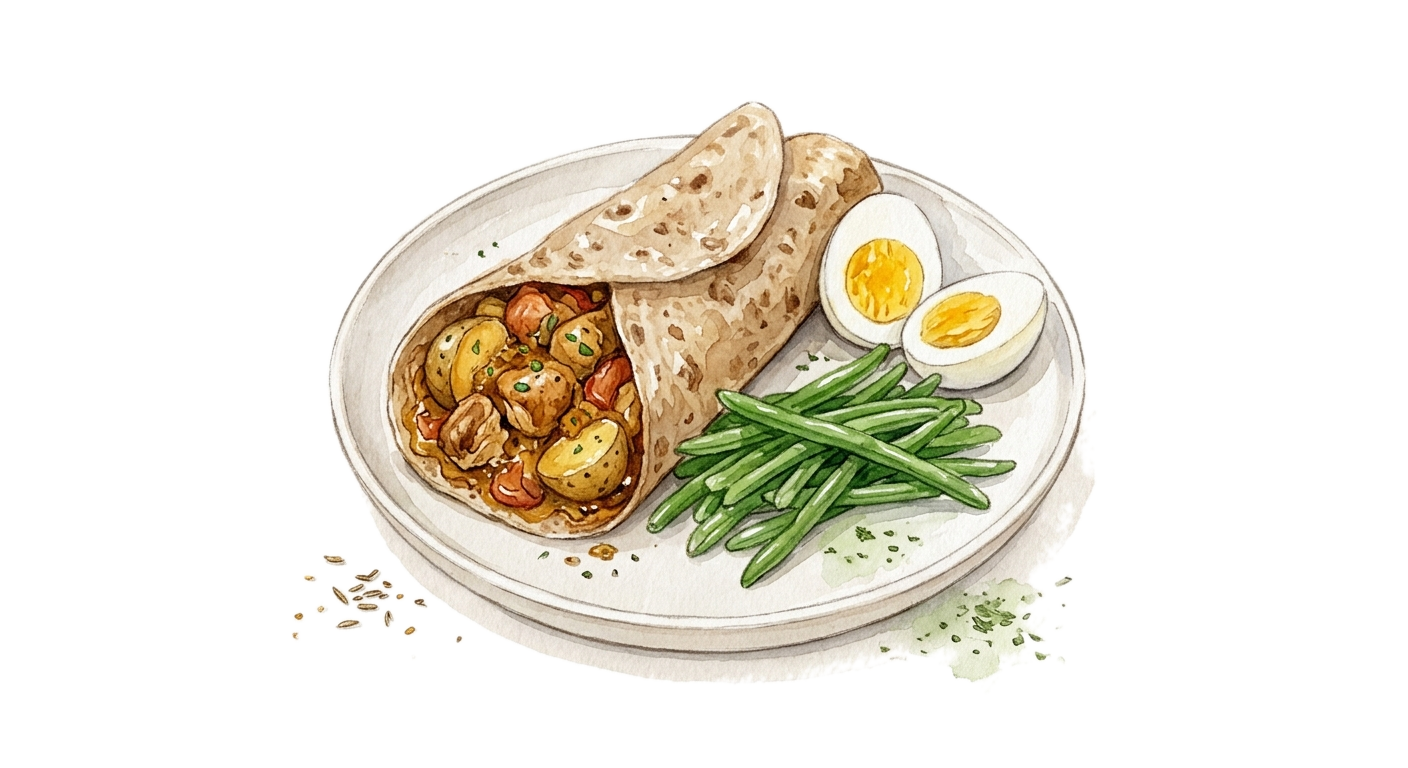
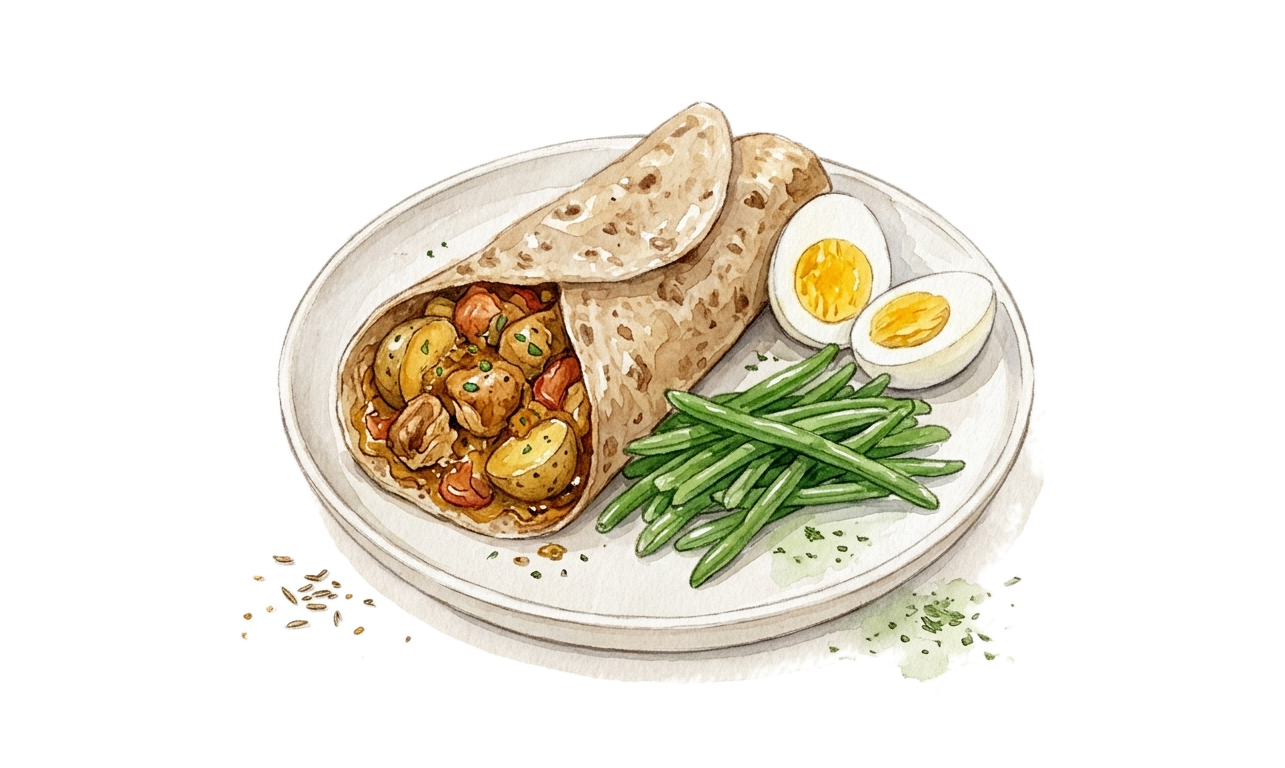
Fix false-positive no-op crop in enlarge_hero_images.py
A padding tier loose enough to clip back to the full canvas was a no-op
(byte-for-byte the original image), which trivially passed the
page-count check and got reported as a successful enlargement without
actually cropping anything. Detect and skip no-op crop boxes before
rebuilding, and report an honest reason (already tight, or genuinely
broke the page count) instead.

Also includes a validated real run against roti.png: cropped 1408->1285px
wide (content fraction 57%->62%), verified "Roti met kip" still spans
its original 2 pages.

Changed region(s): [[0.1868, 0.125, 0.8093, 0.9062], [0.4358, 0.7812, 0.4669, 0.8438], [0.4669, 0.8438, 0.4981, 0.875]]

diff --git a/scripts/enlarge_hero_images.py b/scripts/enlarge_hero_images.py
@@ -197,16 +197,30 @@ def print_scan(rows):
         print(f"{row['path'].name:38s} {w:5d}x{h:<5d}  content width {row['fraction']:5.0%}  {tag}")
 
 
+def is_noop_box(box, size):
+    """True if a crop box covers the whole canvas — i.e. the requested
+    padding was too generous to remove any margin at all, so cropping to
+    it would leave the file byte-for-byte the image it already is."""
+    l, t, r, b = box
+    w, h = size
+    return l <= 0 and t <= 0 and r >= w and b >= h
+
+
 def apply_margin_images(rows, tiers):
     """`\\marginimage` crops never affect pagination — apply the tightest
-    tier directly, no rebuild needed."""
-    tightest = min(tiers)
+    tier that actually crops anything, no rebuild needed."""
     for row in rows:
         if row["kind"] != "marginimage" or not row["candidate"]:
             continue
-        box = cropped_box(row["bbox"], row["size"], tightest)
+        for frac in tiers:
+            box = cropped_box(row["bbox"], row["size"], frac)
+            if not is_noop_box(box, row["size"]):
+                break
+        else:
+            print(f"skipped {row['path'].name}  (marginimage, content already fills the frame at every tier)")
+            continue
         Image.open(row["path"]).crop(box).save(row["path"])
-        print(f"cropped {row['path'].name} (marginimage, padding {tightest:g}, no page-count risk)")
+        print(f"cropped {row['path'].name} (marginimage, padding {frac:g}, no page-count risk)")
 
 
 def apply_hero_images(rows, tiers):
@@ -214,7 +228,10 @@ def apply_hero_images(rows, tiers):
     tiers from tightest to loosest, rebuilding and checking each affected
     recipe's page count after every tier; keep whichever tier is the
     tightest that leaves the page count unchanged, and revert to the
-    original image for any recipe that can't be enlarged safely."""
+    original image for any recipe that can't be enlarged safely. A tier
+    whose padding is so generous the crop box covers the whole canvas is
+    skipped without a rebuild — it wouldn't change the file at all, so it
+    would trivially "pass" the page-count check without enlarging anything."""
     candidates = [r for r in rows if r["kind"] == "heroimagefade" and r["candidate"]]
     if not candidates:
         return
@@ -228,12 +245,25 @@ def apply_hero_images(rows, tiers):
 
     remaining = list(candidates)
     locked = {}
+    exhausted = []  # every tier was a no-op for this image: nothing to crop
     for frac in tiers:
         if not remaining:
             break
+        to_build, noop_this_tier = [], []
         for row in remaining:
             box = cropped_box(row["bbox"], row["size"], frac)
+            if is_noop_box(box, row["size"]):
+                noop_this_tier.append(row)
+                continue
             Image.open(row["path"]).crop(box).save(row["path"])
+            to_build.append(row)
+
+        # A no-op at this tier is a no-op at every looser tier too (the box
+        # only ever grows), so these images are done for good.
+        exhausted.extend(noop_this_tier)
+        remaining = to_build
+        if not remaining:
+            continue
 
         print(f"building with padding {frac:g} for {len(remaining)} image(s) ...")
         build_book()
@@ -249,18 +279,19 @@ def apply_hero_images(rows, tiers):
                 still_remaining.append(row)
         remaining = still_remaining
 
-    for row in remaining:
+    for row in remaining + exhausted:
         row["path"].write_bytes(backups[row["path"]])
 
     for row in candidates:
         path = row["path"]
         if path in locked:
-            print(f"kept   {path.name}  padding {locked[path]:g}  (page count unchanged: {baseline[titles[path]]})")
+            print(f"kept    {path.name}  padding {locked[path]:g}  (page count unchanged: {baseline[titles[path]]})")
+        elif row in exhausted:
+            print(f"skipped {path.name}  (content already too close to full width; no tier gives a real crop)")
         else:
-            print(f"skipped {path.name}  (no crop tier kept '{titles[path]}' at {baseline[titles[path]]} page(s); left unchanged)")
+            print(f"skipped {path.name}  (every crop that changed the file also changed '{titles[path]}''s page count from {baseline[titles[path]]})")
 
-    if remaining:
-        print("re-run build.sh to get a PDF that matches the final images/ state.")
+    print("re-run build.sh to get a PDF that matches the final images/ state.")
 
 
 def main():